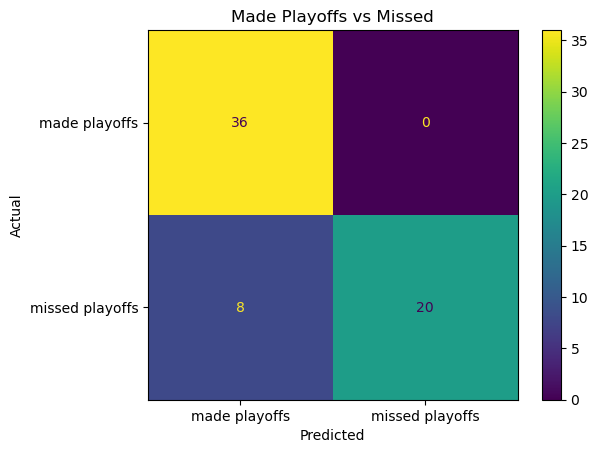
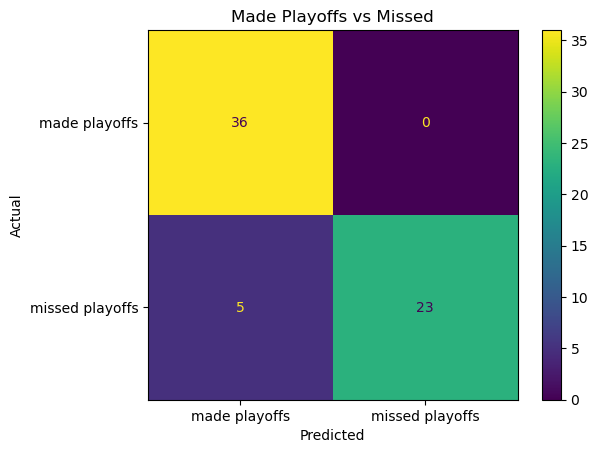
latest

Changed region(s): [[0.2408, 0.4636, 0.5719, 0.8962]]

diff --git a/README.md b/README.md
@@ -224,4 +224,16 @@ With that said, a close runner up also used the DecisionTreeClassifier model typ
 
 ###### Notes On Other Models:
 The Random-Forest classifier's performance was comperable to DescisionTree with an accuracy around 87% - 89% and an error equivalent to what was produced by its counter part.
-Furthermore, the KNN and SVC classifiers did not perform nearly as well and as a result are not mentioned.
+Furthermore, the KNN and SVC classifiers did not perform nearly as well.  The only attempt that was worth mentioning was using SVC with an accuracy of 86% and a very low error.  However, the predictions shown in the confusion matrix are not as compelling.  Maybe if some more data could be aquired the results would get better.
+
+model                                                               svc
+best params                {'C': 0.1, 'gamma': 0.1, 'kernel': 'linear'}
+perm-imp model                                                     dt-c
+feature count                                                         5
+train score                                                    0.933594
+test score                                                        0.875
+rmse                                                            0.22771
+test confusion matrix:                               [[36, 0], [8, 20]]
+fit time (seconds)                                             2.073034
+
+![Alt text](images/svc_best_model_confusion_matrix.png)
